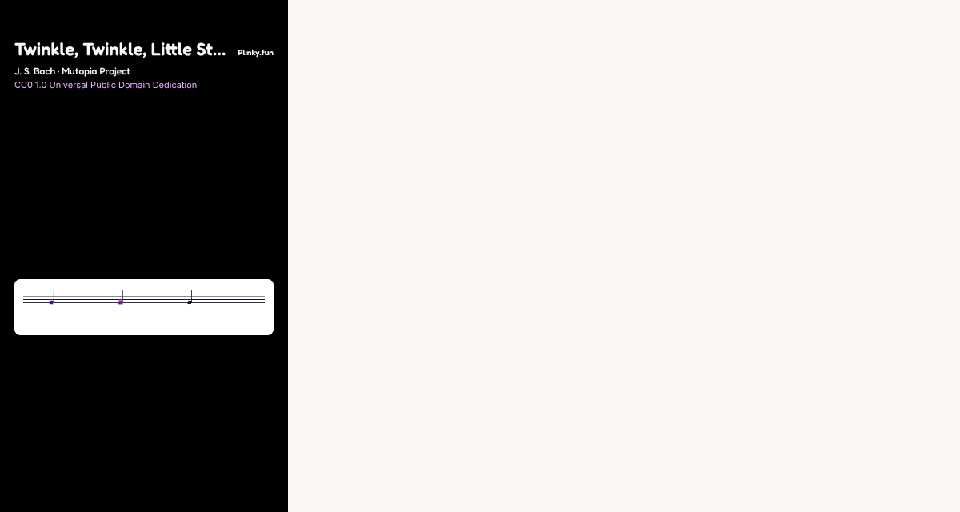
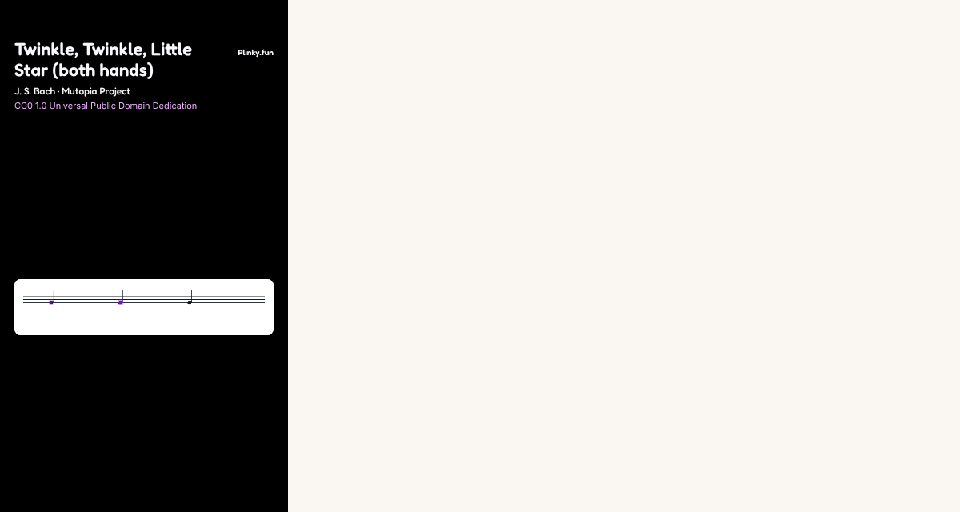
fix(video): a title takes a second row rather than being cut
Fifteen of the sixty-four promo titles overflowed their row at this size and were
ellipsised — "Nocturne in C-sharp min…", clipped mid-word against the wordmark.
A truncated name is the worst thing this frame can do: it is the one piece of
information somebody scrolling past is deciding on.

So the title wraps. Only the first row shares its width with the mark, which is
most of why two rows are enough rather than a stopgap: the second has the whole
frame. Measured against the real piece list with the real wrapper, ten of the
sixty-four now take two rows and none is cut. The 16:9 frame is wide enough that
none of them wraps at all.

The room comes from the progress rail, which used to sit in exactly that band and
went two commits ago. A short title's frame is unchanged — one row plus the gap
puts the composer precisely where it always was, so only a long title moves
anything.

wrapTitle is in core/ and takes a measure function, because how wide a string is
belongs to the face it is set in and core knows nothing about canvases. It breaks
on spaces and never hyphenates: a hyphen inserted into a piece's name invents a
spelling it does not have. A single word too long for its row is still ellipsised,
because there is nothing else to do with it.

Character count is not width, incidentally. "Nocturne in C-sharp minor" and
"Nocturne in E minor, H 46" are both twenty-five characters and only one of them
[…]

Changed region(s): [[0.0, 0.125, 0.2188, 0.2188], [0.1875, 0.0625, 0.2188, 0.125]]

diff --git a/app/lib/videoPainter.ts b/app/lib/videoPainter.ts
@@ -24,6 +24,7 @@ import {
     scorePanelRect,
     scoreWindowTop,
     stepCenterAt,
+    wrapTitle,
 } from "../../core/videoScene";
 import { tittleCircle, WORDMARK, wordmarkText } from "../../core/wordmark";
 
@@ -171,6 +172,11 @@ function ellipsize(context: Context2D, text: string, room: number): string {
 // and the mark only has to be legible next to it.
 const WORDMARK_SCALE = 0.029;
 
+// One row of title, against the frame's short side. With the 0.016 gap under the block it
+// puts the composer exactly where a single-line title always put it, so a short title's
+// frame is unchanged and only a long one moves anything.
+const TITLE_ROW = 0.072;
+
 // The lockup, right-aligned on `rightX` and sitting on `baselineY`.
 //
 // The same mark the header and the thumbnails set, from the same geometry: the name in the
@@ -236,12 +242,32 @@ function paintChrome(context: Context2D, cfg: ChromeConfig): void {
     context.font = fontAt(600, WORDMARK_SCALE, unit, DISPLAY_FAMILY);
     const wordmarkWidth = showWordmark ? context.measureText(wordmarkText(true)).width : 0;
     const textRoom = width - margin * 2 - wordmarkWidth - (showWordmark ? unit * 0.04 : 0);
+    const fullRoom = width - margin * 2;
+    // Where the composer starts, which depends on how many rows the title took.
+    let line = height * 0.08;
     if (showTitle) {
         context.textAlign = "left";
         context.textBaseline = "top";
         context.fillStyle = INK;
         context.font = fontAt(600, 0.062, unit, DISPLAY_FAMILY);
-        context.fillText(ellipsize(context, title, textRoom), margin, height * 0.08);
+        // A truncated name is the worst thing this frame can do: it is the one piece of
+        // information somebody scrolling is deciding on. Fifteen of the sixty-four promo
+        // titles overflowed one row at this size, so the title takes a second when it needs
+        // one — into the band the progress rail used to occupy, which is now empty.
+        //
+        // Only the first row shares its width with the wordmark; the second has the frame.
+        const rows = wrapTitle(
+            (text) => context.measureText(text).width,
+            title,
+            textRoom,
+            fullRoom,
+        );
+        for (const [index, row] of rows.entries()) {
+            const room = index === 0 ? textRoom : fullRoom;
+            context.fillText(ellipsize(context, row, room), margin, line);
+            line += unit * TITLE_ROW;
+        }
+        line += unit * 0.016;
     }
     // The provenance sits directly under the title, where a reader looks next — a piece
     // and who wrote it are one thought, and the licence belongs with them.
@@ -255,7 +281,6 @@ function paintChrome(context: Context2D, cfg: ChromeConfig): void {
     // With the title turned off, the credit is the only thing naming the piece, so it takes
     // the title's place and carries the name — an exported file that names nothing is not
     // an attribution.
-    let line = height * 0.08 + (showTitle ? unit * 0.088 : 0);
     const provenance = showTitle ? cfg.credit : [title, cfg.credit].filter(Boolean).join(" · ");
     if (provenance !== "") {
         context.textAlign = "left";

diff --git a/core/videoScene.test.ts b/core/videoScene.test.ts
@@ -7,6 +7,7 @@ import { attributionFor } from "./attribution";
 import {
     licenseLine,
     provenanceLine,
+    wrapTitle,
     highwayBlocks,
     playedStepCount,
     sceneKeys,
@@ -262,5 +263,49 @@ describe("the keyboard the export draws", () => {
             2000,
         );
         expect(blocks[0]).toMatchObject({ finger: 1, hand: "left" });
+    });
+});
+
+describe("wrapTitle", () => {
+    // A stand-in face: every character is ten wide, so the sums are readable.
+    const measure = (text: string) => text.length * 10;
+
+    it("keeps a title that fits on one line", () => {
+        expect(wrapTitle(measure, "Gymnopédie No. 1", 400, 400)).toEqual(["Gymnopédie No. 1"]);
+    });
+
+    it("breaks at a space, and the second line gets the wider room", () => {
+        // 250 on the first row (the wordmark takes the rest), 400 under it.
+        const lines = wrapTitle(measure, "Nocturne in E minor, Op. 72 No. 1", 250, 400);
+        expect(lines).toHaveLength(2);
+        expect(lines.join(" ")).toBe("Nocturne in E minor, Op. 72 No. 1");
+        expect(measure(lines[0]!)).toBeLessThanOrEqual(250);
+        expect(measure(lines[1]!)).toBeLessThanOrEqual(400);
+    });
+
+    it("never splits a word", () => {
+        for (const line of wrapTitle(measure, "Toccata and Fugue in D minor", 200, 300)) {
+            for (const word of line.split(" ")) {
+                expect("Toccata and Fugue in D minor".split(" ")).toContain(word);
+            }
+        }
+    });
+
+    it("keeps a single unbreakable word rather than hyphenating it", () => {
+        // Inserting a hyphen into a piece's name invents a spelling it does not have.
+        expect(wrapTitle(measure, "Supercalifragilistic", 50, 50)).toEqual([
+            "Supercalifragilistic",
+        ]);
+    });
+
+    it("puts the overflow on the last line when two are not enough", () => {
+        const lines = wrapTitle(measure, "one two three four five six seven eight", 60, 60, 2);
+        expect(lines).toHaveLength(2);
+        // Nothing is dropped: the painter ellipsises what will not fit when it draws.
+        expect(lines.join(" ")).toBe("one two three four five six seven eight");
+    });
+
+    it("honours a one-line budget", () => {
+        expect(wrapTitle(measure, "one two three", 60, 60, 1)).toHaveLength(1);
     });
 });

diff --git a/core/videoScene.ts b/core/videoScene.ts
@@ -146,6 +146,53 @@ export function provenanceLine(attribution: Attribution): string {
     return parts.join(" · ");
 }
 
+// The title, broken across at most `maxLines` rows.
+//
+// Only the first row shares its width with the wordmark; the rows under it have the frame
+// to themselves, which is most of why two is enough. Measured rather than counted: a title
+// fits or does not by how wide its letters are, and character count says nothing about that
+// — "Nocturne in C-sharp minor" and "Nocturne in E minor, H 46" are the same length and one
+// of them overflowed.
+//
+// `measure` is the caller's, because the width of a string is a property of the face it is
+// set in and this module knows nothing about canvases.
+//
+// A single word too long for its row is ellipsised rather than broken: a hyphen inserted
+// mid-word into a piece's name invents a spelling.
+export function wrapTitle(
+    measure: (text: string) => number,
+    title: string,
+    firstRoom: number,
+    restRoom: number,
+    maxLines = 2,
+): string[] {
+    const words = title.split(" ").filter(Boolean);
+    const lines: string[] = [];
+    let index = 0;
+    while (index < words.length && lines.length < maxLines) {
+        const room = lines.length === 0 ? firstRoom : restRoom;
+        let line = "";
+        while (index < words.length) {
+            const next = line ? `${line} ${words[index]}` : words[index]!;
+            if (line !== "" && measure(next) > room) {
+                break;
+            }
+            line = next;
+            index++;
+            // A first word already over the room cannot be helped by taking more.
+            if (measure(line) > room) {
+                break;
+            }
+        }
+        lines.push(line);
+    }
+    // Whatever is left has nowhere to go, so the last row says so.
+    if (index < words.length) {
+        lines[lines.length - 1] = `${lines[lines.length - 1]} ${words.slice(index).join(" ")}`;
+    }
+    return lines.length > 0 ? lines : [title];
+}
+
 // The licence, for the line of its own it now gets. Empty when the piece carries a licence
 // the catalogue does not know, and then the line is simply not drawn.
 //

diff --git a/app/lib/videoFrame.stories.tsx b/app/lib/videoFrame.stories.tsx
@@ -121,8 +121,9 @@ export const ScorePortrait: Story = {
     render: () => <PortraitFrame />,
 };
 
-// A long title on the narrow portrait frame: it ellipsizes short of the
-// wordmark instead of running under it.
+// A long title on the narrow portrait frame: it takes a second row rather than being cut
+// short of the wordmark. Only the first row shares its width with the mark, so the second
+// runs the full width of the frame.
 export const PortraitLongTitle: Story = {
     render: () => <PortraitFrame title="Twinkle, Twinkle, Little Star (both hands)" />,
 };
